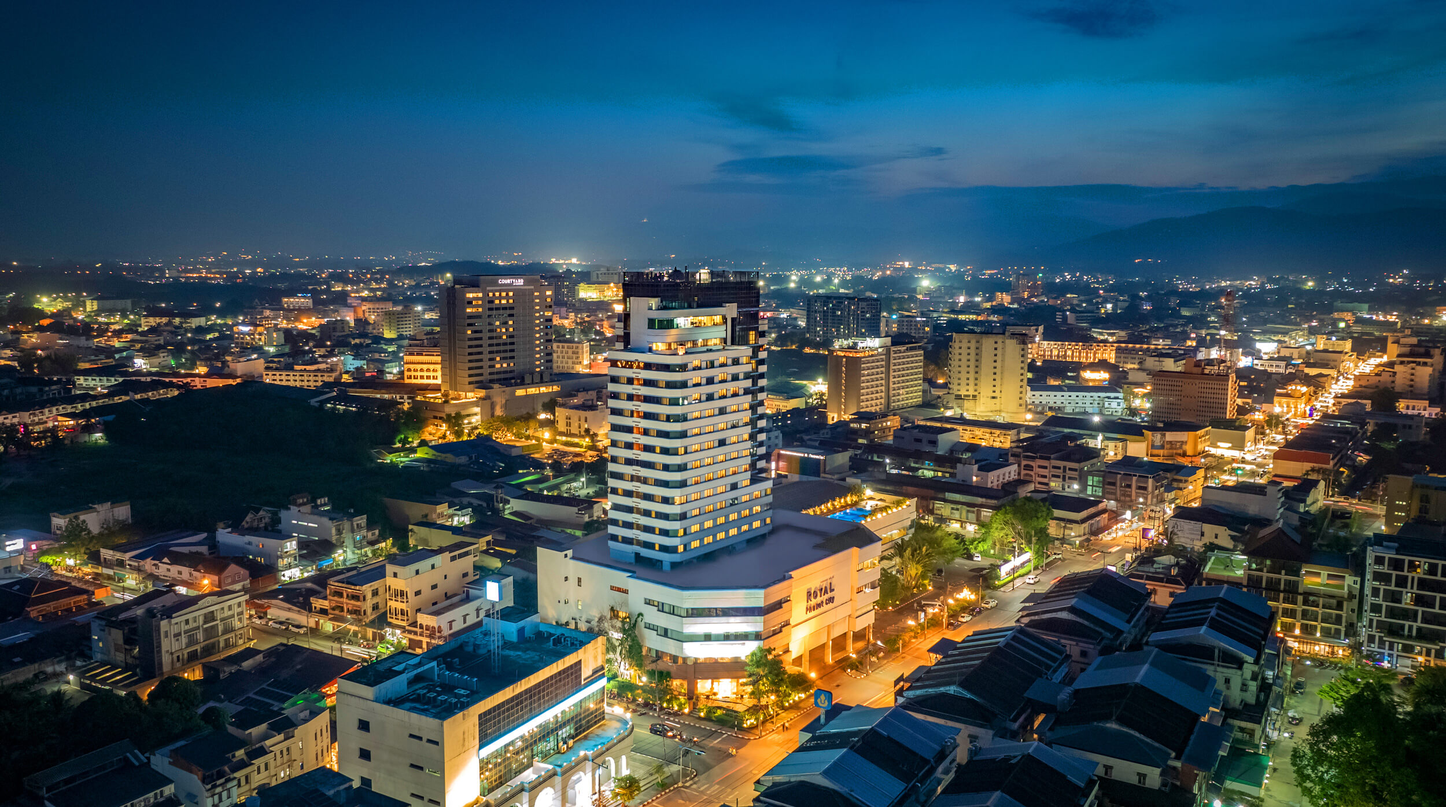
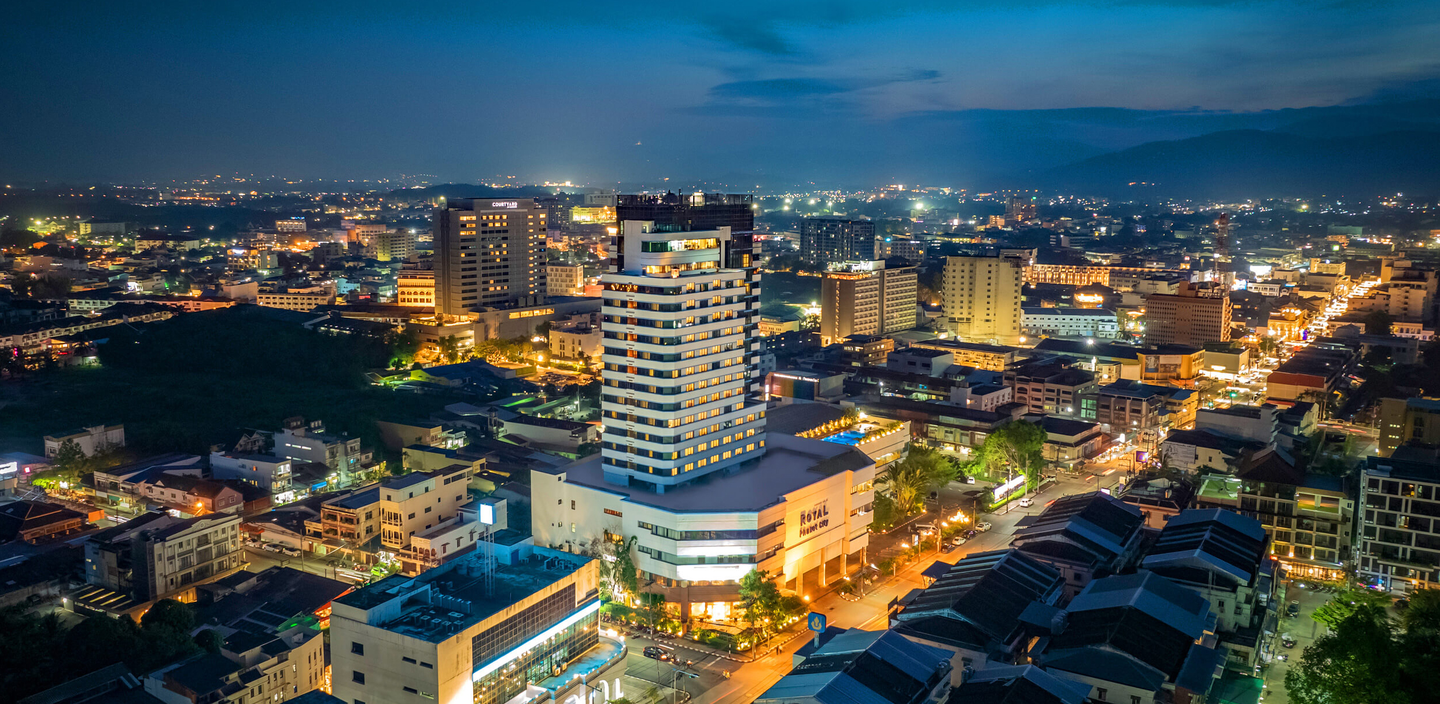
update: hero section - new RPC-Main-Image, 75vh on desktop, content shifted up 150px
Made-with: Cursor

diff --git a/src/components/HeroSection.tsx b/src/components/HeroSection.tsx
@@ -29,7 +29,7 @@ export default function HeroSection({
   showSparkles = false,
 }: HeroSectionProps) {
   const heightClasses = {
-    full: "h-screen",
+    full: "h-screen md:h-[75vh]",
     large: "h-[85vh]",
     medium: "h-[60vh]",
     small: "h-[35vh]",
@@ -60,7 +60,7 @@ export default function HeroSection({
       {showSparkles && <SparkleOverlay />}
 
       {/* Content */}
-      <div className="relative h-full flex items-center justify-center">
+      <div className="relative h-full flex items-center justify-center md:pb-[300px]">
         <div className="container mx-auto px-6 text-center text-white">
           <motion.div
             initial={{ opacity: 0, y: 30 }}
